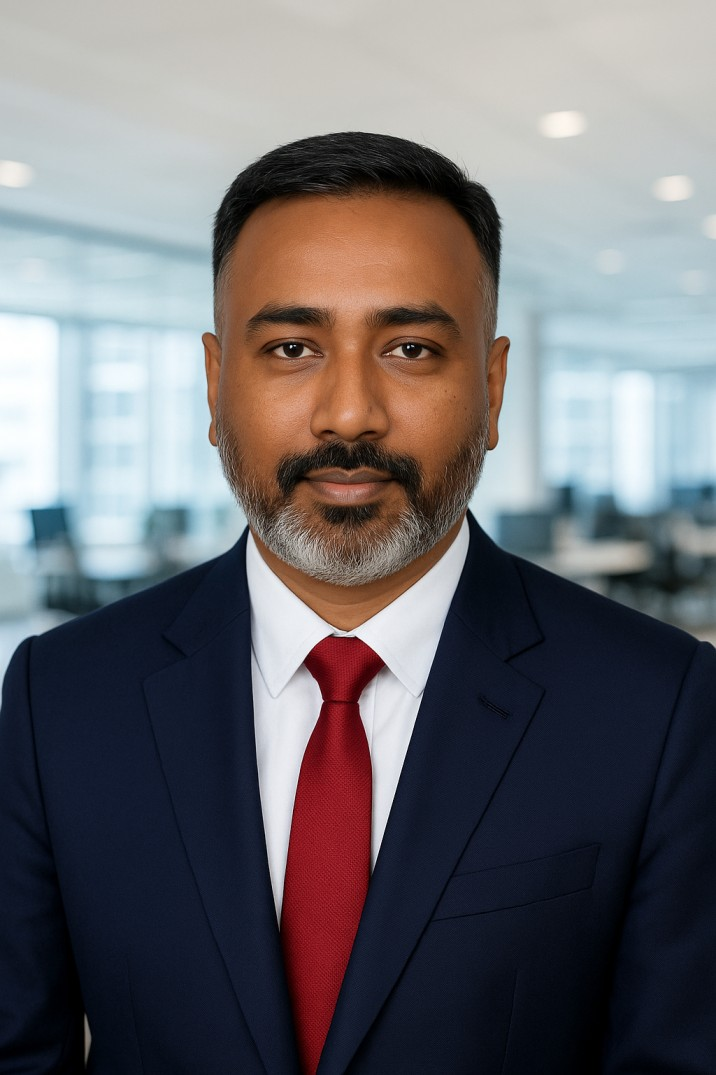
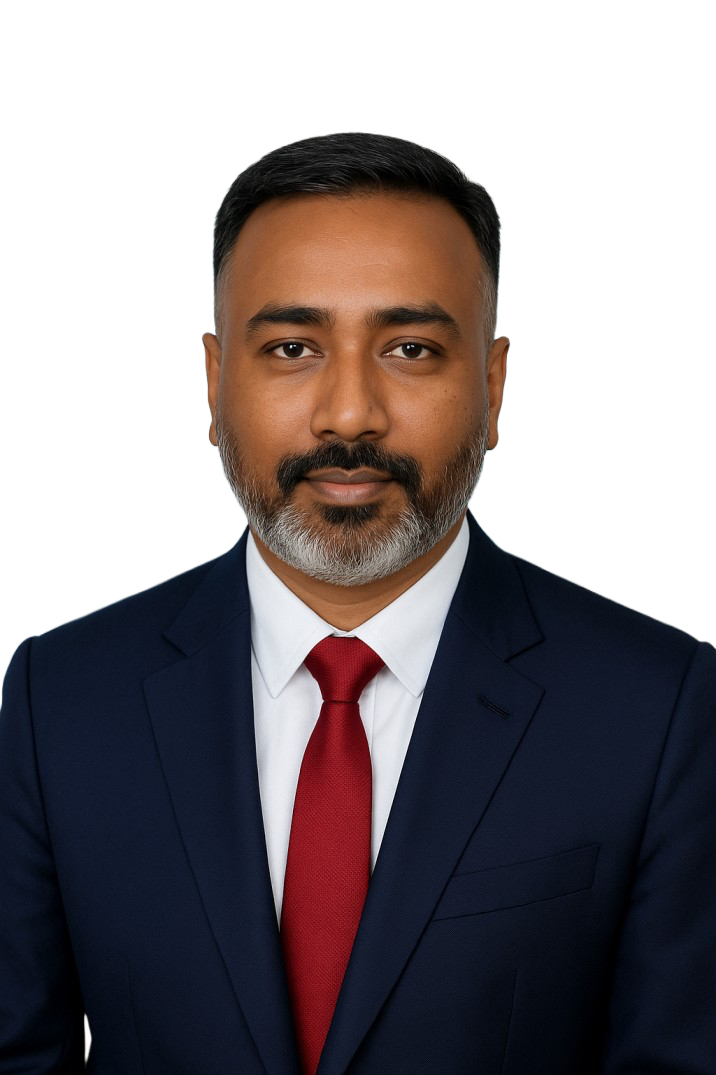
Name & Image changes

diff --git a/files/index.html b/files/index.html
@@ -182,7 +182,7 @@ nav .link ul li a:hover::before{
 <body>
     <nav>
         <div class="logo">
-            <h2 data-aos="zoom-in" data-aos-duration="1200">Tom <span>Cruise</span></h2>
+            <h2 data-aos="zoom-in" data-aos-duration="1200">Sruthish <span>Kumar</span> S</h2>
         </div>
         <div class="link">
             <ul>
@@ -195,11 +195,13 @@ nav .link ul li a:hover::before{
         </div>
     </nav>
     <div class="main">
-        <div class="img-term" data-aos="zoom-out-right" data-aos-duration="2500"><img class="men" src="img/main.png" alt="main-img"></div>
+        <div class="img-term" data-aos="zoom-out-right" data-aos-duration="2500">
+            <img class="men" src="https://sruthishkumar.github.io/node/files/main.jpg" alt="main-img"/>
+        </div>
         <div class="main-detail">
             <p data-aos="fade-left" data-aos-duration="1200" data-aos-delay="1200">Hello I'm</p>
-            <h1 data-aos="fade-right" data-aos-duration="1200" data-aos-delay="1400">Tom Cruise</h1>
-            <h4 data-aos="fade-in" data-aos-duration="1200" data-aos-delay="1600">Frontend Developer</h4>
+            <h1 data-aos="fade-right" data-aos-duration="1200" data-aos-delay="1400">Sruthish</h1>
+            <h4 data-aos="fade-in" data-aos-duration="1200" data-aos-delay="1600">Web Frontend Developer</h4>
 
             <div class="btn">
                 <button class="btn-1" data-aos="zoom-in-right" data-aos-duration="1200" data-aos-delay="1800">Download CV</button>
